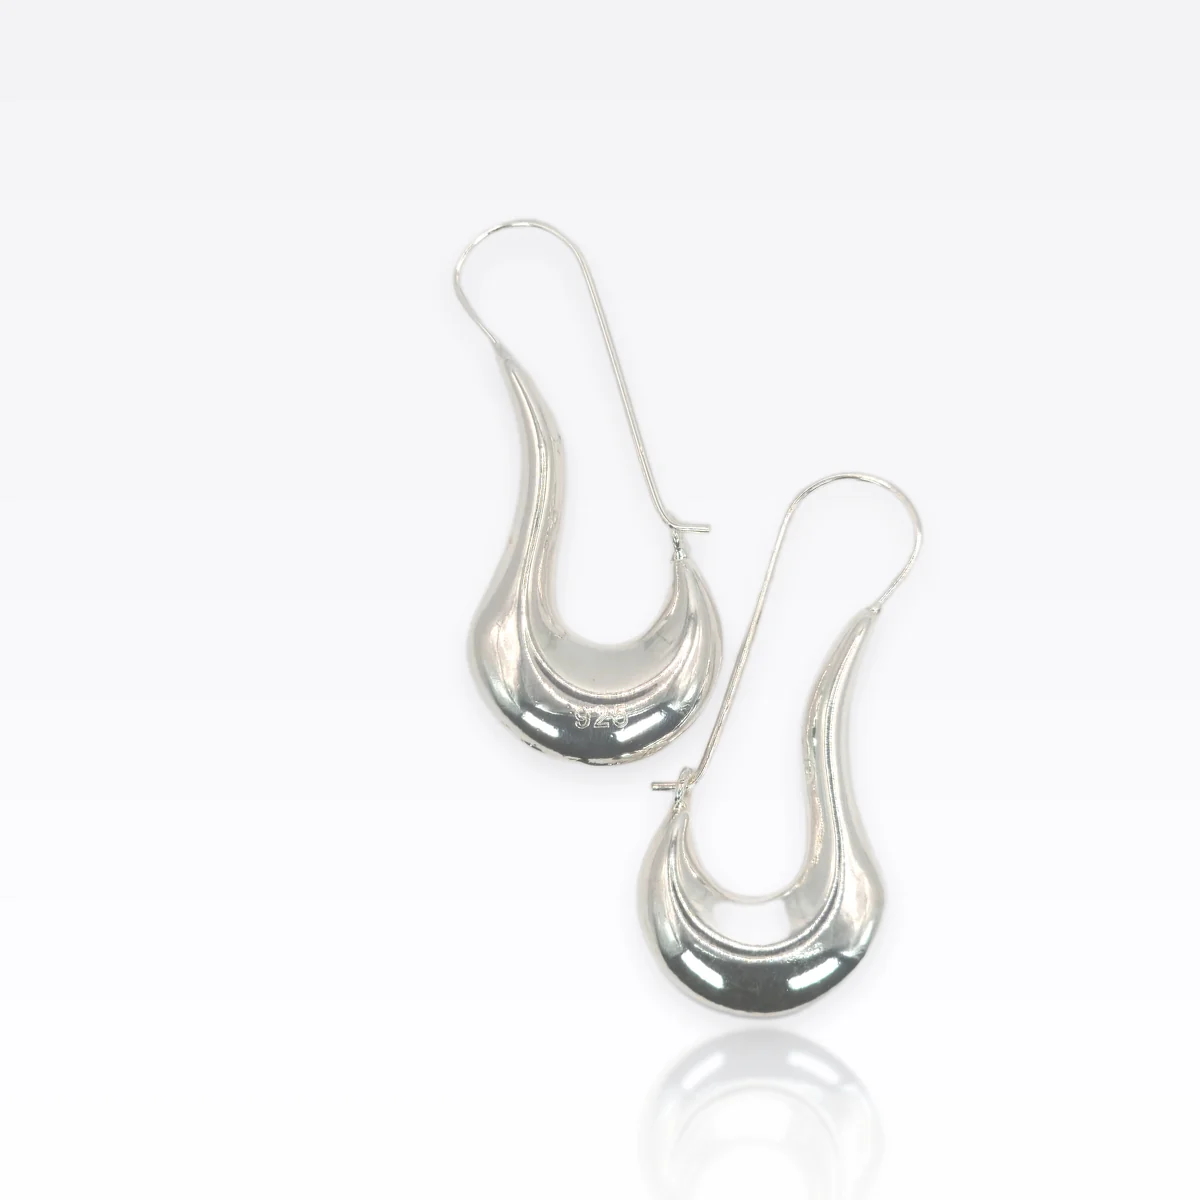
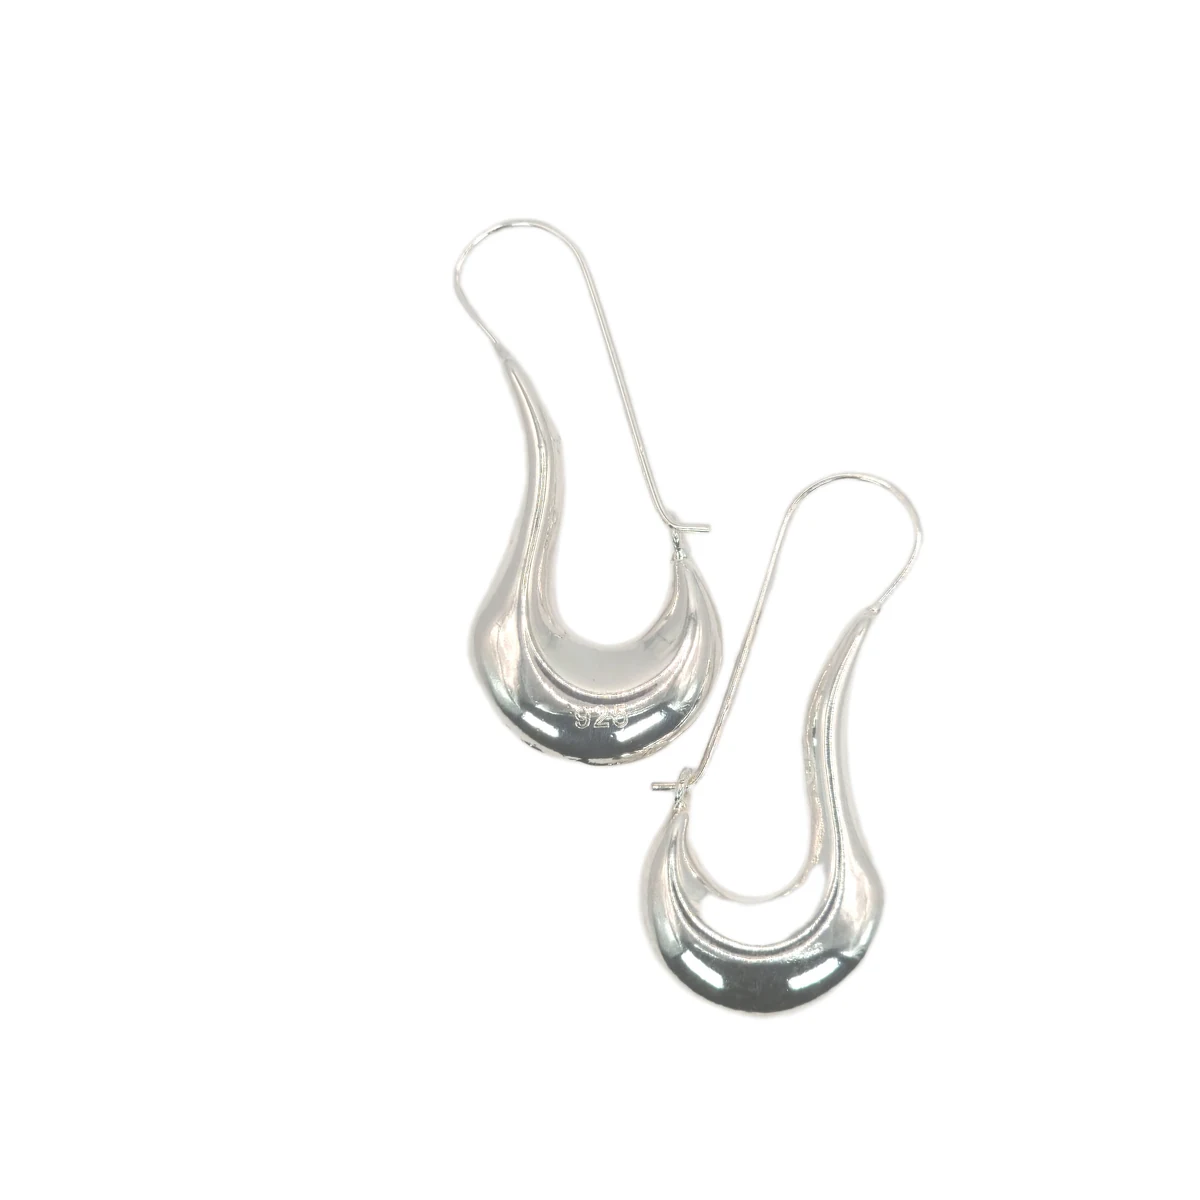
feat(A001): foto blanca orientada como principal, modelo al final + zoom en imagen
- Reordena galeria A001: aretes (fondo blanco, orientados verticales) primero,
  modelo al final. Reemplaza a001-1 por la toma de fondo blanco rotada/centrada.
- Agrega zoom al pasar el mouse sobre la imagen principal del producto.
- Regenera feed y JSON-LD con el nuevo orden.

diff --git a/index.html b/index.html
@@ -81,9 +81,9 @@
   "@type": "Product",
   "name": "Aretes de Plata Forma de U",
   "image": [
-    "https://moncatu.com/img/a001-modelo.webp",
     "https://moncatu.com/img/a001-1.webp",
-    "https://moncatu.com/img/a001-2.webp"
+    "https://moncatu.com/img/a001-2.webp",
+    "https://moncatu.com/img/a001-modelo.webp"
   ],
   "description": "Aretes finos de Plata Ley 925 con Dijes para Mujer | Joyería de Moda para Bodas, Fiestas y Compromisos",
   "sku": "A001",
@@ -745,8 +745,8 @@ footer{background:var(--noche);padding:4rem 0 2rem}
 
 /* ══ PRODUCT PAGE ══ */
 .pp-gallery{position:sticky;top:100px}
-.pp-main-img{border-radius:6px;overflow:hidden;background:var(--cream);aspect-ratio:1/1}
-.pp-main-img img{width:100%;height:100%;object-fit:cover;transition:opacity .3s}
+.pp-main-img{border-radius:6px;overflow:hidden;background:var(--cream);aspect-ratio:1/1;cursor:zoom-in}
+.pp-main-img img{width:100%;height:100%;object-fit:cover;transition:transform .12s ease-out,opacity .3s;will-change:transform}
 .pp-thumbs{display:flex;gap:.5rem;margin-top:.6rem}
 .pp-thumb{width:64px;height:64px;border-radius:4px;overflow:hidden;cursor:pointer;border:2px solid transparent;opacity:.6;transition:all .2s}
 .pp-thumb.active,.pp-thumb:hover{border-color:var(--esm);opacity:1}
@@ -2286,6 +2286,21 @@ function renderCkStep4(el){
 }
 
 /* ── PRODUCT PAGE ── */
+/* Zoom al pasar el mouse sobre la imagen principal del producto */
+function moncatuImgZoom(e, box){
+  var img = box.querySelector('img'); if(!img) return;
+  var r = box.getBoundingClientRect();
+  var x = ((e.clientX - r.left) / r.width) * 100;
+  var y = ((e.clientY - r.top) / r.height) * 100;
+  img.style.transformOrigin = x + '% ' + y + '%';
+  img.style.transform = 'scale(2.2)';
+}
+function moncatuImgZoomOut(box){
+  var img = box.querySelector('img'); if(!img) return;
+  img.style.transform = 'scale(1)';
+  img.style.transformOrigin = 'center center';
+}
+
 function goProducto(productId){
   if(!productId) { go('inicio'); return; }
   document.querySelectorAll('.page').forEach(function(p){p.classList.remove('on')});
@@ -2315,7 +2330,7 @@ async function renderProductPage(productId){
     var badge = p.featured ? 'Nuevo' : (p.limited ? 'Ed. Limitada' : (p.exclusive ? 'Exclusivo' : ''));
 
     var galleryHtml = '<div class="pp-gallery">';
-    galleryHtml += '<div class="pp-main-img" id="pp-main-img"><img src="' + imgs[0] + '" alt="' + p.name + '" /></div>';
+    galleryHtml += '<div class="pp-main-img" id="pp-main-img" onmousemove="moncatuImgZoom(event,this)" onmouseleave="moncatuImgZoomOut(this)"><img src="' + imgs[0] + '" alt="' + p.name + '" /></div>';
     if(imgs.length > 1){
       galleryHtml += '<div class="pp-thumbs">';
       imgs.forEach(function(src, i){

diff --git a/products.js b/products.js
@@ -29,9 +29,9 @@ function moncatuDemoCatalog() {
       finish: "Pulido espejo",
       stock: 1,
       images: [
-        "img/a001-modelo.webp",
         "img/a001-1.webp",
-        "img/a001-2.webp"
+        "img/a001-2.webp",
+        "img/a001-modelo.webp"
       ],
       description: "Aretes finos de Plata Ley 925 con Dijes para Mujer | Joyería de Moda para Bodas, Fiestas y Compromisos",
       featured: true